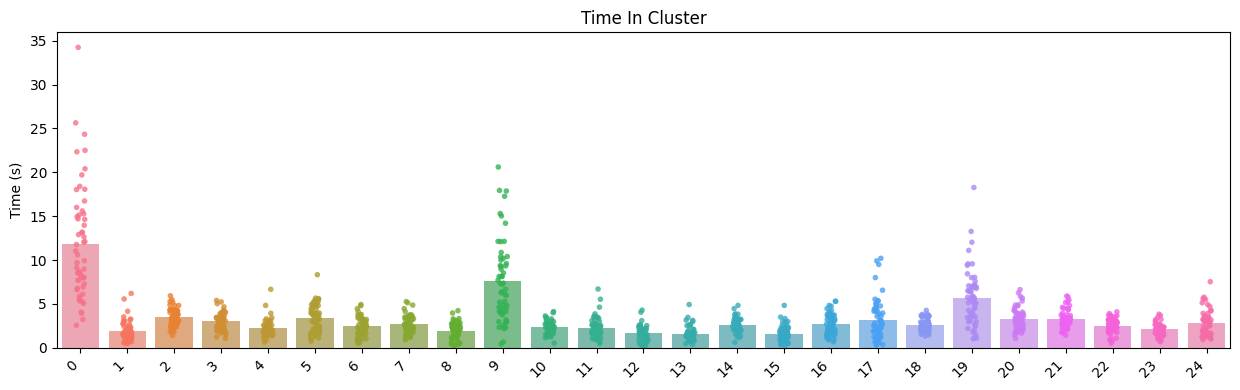
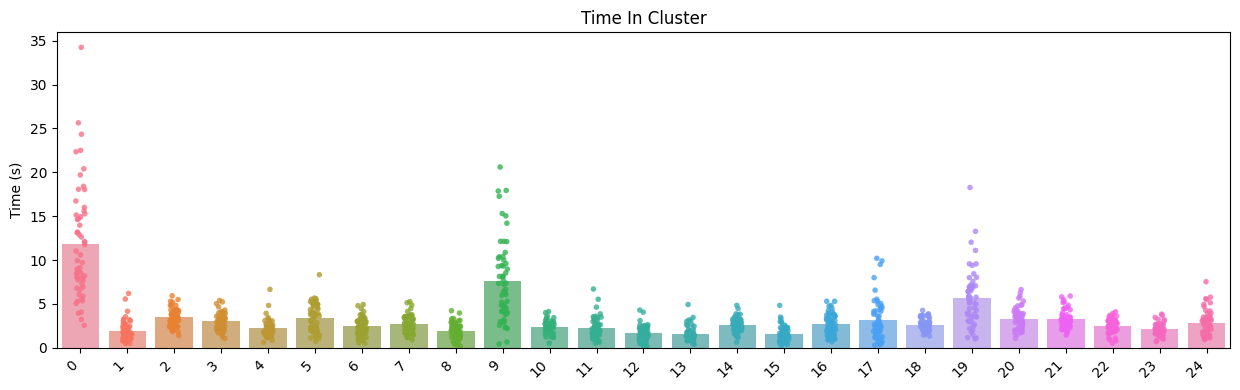
regenerate plots with seeds

diff --git a/tests/oft_pipeline/oft_pipeline.py b/tests/oft_pipeline/oft_pipeline.py
@@ -611,7 +611,7 @@ print("Summary computation and CSV tests passed.")
 sc.each.time_in_state("kmeans_25").store("time_in_cluster")
 fig, ax, df_strip = sc.snsstrip(
     "time_in_cluster",
-    random_state=42,
+    random_state=42,  # optional, for point jitter
     show=True,
     savedir=OUT_DIR,
 )
@@ -622,7 +622,7 @@ fig, ax, df_bar = sc.snsbar(
 )
 fig, ax, df_super = sc.snssuperplot(
     "time_in_cluster",
-    random_state=42,
+    random_state=42,  # optional, for point jitter
     show=True,
     savedir=OUT_DIR,
 )
@@ -660,7 +660,7 @@ GROUP_ORDER = {"treatment": ["control", "stressor"], "timepoint": ["pre", "post"
 fig, ax, df_gsup = sc_grouped.snssuperplot(
     "total_distance_bodycentre",
     group_order=GROUP_ORDER,
-    random_state=42,
+    random_state=42,  # optional, for point jitter
     show=True,
     savedir=str(OUT_DIR),
 )
@@ -702,7 +702,7 @@ fig, ax, df_interleaved = sc_grouped.snssuperplot(
     "total_distance_bodycentre",
     group_order=GROUP_ORDER,
     sort_by="timepoint",
-    random_state=42,
+    random_state=42,  # optional, for point jitter
     show=True,
     savedir=str(OUT_DIR),
     filename="total_distance_interleaved_superplot.png",
@@ -738,7 +738,7 @@ fig_ann, ax_ann, df_ann = sc_grouped.snssuperplot(
     "total_distance_bodycentre",
     group_order=GROUP_ORDER,
     annotate="help",
-    random_state=42,
+    random_state=42,  # optional, for point jitter
     show=False,
 )
 
@@ -771,7 +771,11 @@ fig_ann, ax_ann, df_ann = sc_grouped.snsbox(
 
 # %%
 # 1. String key
-fig, ax, _ = sc.snsstrip("total_distance_bodycentre", random_state=42, show=False)
+fig, ax, _ = sc.snsstrip(
+    "total_distance_bodycentre",
+    random_state=42,  # optional, for point jitter
+    show=False,
+)
 
 # 2. SummaryResult object (inline)
 fig, ax, df_mc = sc.snsbar(

diff --git a/docs/examples/oft_pipeline.md b/docs/examples/oft_pipeline.md
@@ -658,6 +658,7 @@ Also available: `snsbox`, `snsviolin`, `snspoint`, `snsswarm`.
 sc.each.time_in_state("kmeans_25").store("time_in_cluster")
 fig, ax, df_strip = sc.snsstrip(
     "time_in_cluster",
+    random_state=42, # optional, for point jitter
     show=True,
     savedir=OUT_DIR,
 )
@@ -668,6 +669,7 @@ fig, ax, df_bar = sc.snsbar(
 )
 fig, ax, df_super = sc.snssuperplot(
     "time_in_cluster",
+    random_state=42, # optional, for point jitter
     show=True,
     savedir=OUT_DIR,
 )
@@ -742,6 +744,7 @@ GROUP_ORDER = {"treatment": ["control", "stressor"], "timepoint": ["pre", "post"
 fig, ax, df_gsup = sc_grouped.snssuperplot(
     "total_distance_bodycentre",
     group_order=GROUP_ORDER,
+    random_state=42, # optional, for point jitter
     show=True,
     savedir=str(OUT_DIR),
 )
@@ -814,6 +817,7 @@ fig, ax, df_interleaved = sc_grouped.snssuperplot(
     "total_distance_bodycentre",
     group_order=GROUP_ORDER,
     sort_by="timepoint",
+    random_state=42, # optional, for point jitter
     show=True,
     savedir=str(OUT_DIR),
     filename="total_distance_interleaved_superplot.png",
@@ -870,6 +874,7 @@ fig_ann, ax_ann, df_ann = sc_grouped.snssuperplot(
     "total_distance_bodycentre",
     group_order=GROUP_ORDER,
     annotate="help",
+    random_state=42, # optional, for point jitter
     show=False,
 )
 ```
@@ -959,7 +964,11 @@ Two ways to pass a metric to any `sns*` method:
 
 ```python
 # 1. String key
-fig, ax, _ = sc.snsstrip("total_distance_bodycentre", show=False)
+fig, ax, _ = sc.snsstrip(
+    "total_distance_bodycentre", 
+    random_state=42, # optional, for point jitter
+    show=False,
+    )
 
 # 2. SummaryResult object (inline)
 fig, ax, df_mc = sc.snsbar(
